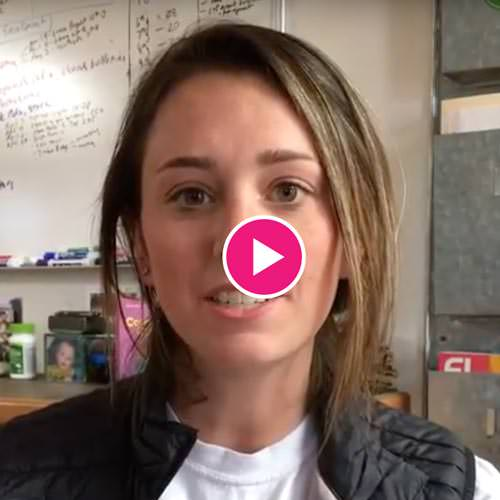
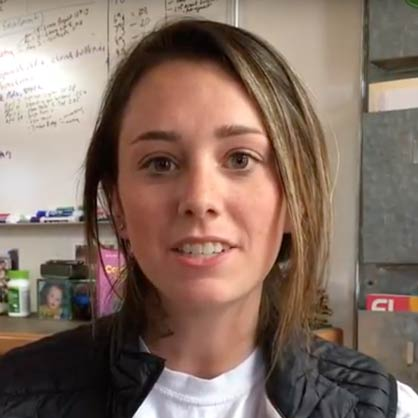
Tweaked the social feed on the home page. Button tweaks. Front page css tweaks.

Changed region(s): [[0.4354, 0.4043, 0.622, 0.622]]

diff --git a/assets/css/style.css b/assets/css/style.css
@@ -635,12 +635,21 @@ ul.pager li a:visited {
 }
 .footer-wrapper .footer-inner .one .social-icons a {
   margin: 0 .5rem;
+  -webkit-transition: all 0.2s ease;
+  transition: all 0.2s ease;
+  text-decoration: none;
 }
 .footer-wrapper .footer-inner .one .social-icons a:first-child {
   margin-left: 0;
 }
 .footer-wrapper .footer-inner .one .social-icons a img {
   height: 60px;
+  width: 60px;
+}
+.footer-wrapper .footer-inner .one .social-icons a:hover {
+  -webkit-transform: scale(1.1);
+      -ms-transform: scale(1.1);
+          transform: scale(1.1);
 }
 @media (min-width: 50em) {
   .footer-wrapper .footer-inner .two {
@@ -708,6 +717,16 @@ ul.pager li a:visited {
   margin-left: 0;
   margin-right: 0;
   clear: none;
+}
+.footer-wrapper .footer-inner .three .right img {
+  -webkit-transition: all 0.2s ease;
+  transition: all 0.2s ease;
+  text-decoration: none;
+}
+.footer-wrapper .footer-inner .three .right img:hover {
+  -webkit-transform: scale(1.1);
+      -ms-transform: scale(1.1);
+          transform: scale(1.1);
 }
 .footer-wrapper .footer-inner .full {
   width: 100%;
@@ -922,6 +941,43 @@ a.call-to-action:hover {
           box-shadow: 5px 20px 30px 0 rgba(0, 0, 0, 0.1);
 }
 
+.play-button {
+  background: #ED197B;
+  border: 3px solid #fff;
+  border-radius: 50%;
+  display: -webkit-box;
+  display: -ms-flexbox;
+  display: flex;
+  -webkit-box-pack: center;
+      -ms-flex-pack: center;
+          justify-content: center;
+  -webkit-box-align: center;
+      -ms-flex-align: center;
+          align-items: center;
+  width: 60px;
+  height: 60px;
+  -webkit-transition: all 0.2s ease;
+  transition: all 0.2s ease;
+}
+.play-button .arrow {
+  width: 0px;
+  height: 0px;
+  border-top: 15px solid transparent;
+  border-bottom: 15px solid transparent;
+  border-left: 20px solid #fff;
+  text-indent: 200%;
+  white-space: nowrap;
+  overflow: hidden;
+  display: block;
+}
+.play-button:hover {
+  -webkit-transform: scale(1.075);
+      -ms-transform: scale(1.075);
+          transform: scale(1.075);
+  -webkit-box-shadow: 5px 20px 30px 0 rgba(0, 0, 0, 0.1);
+          box-shadow: 5px 20px 30px 0 rgba(0, 0, 0, 0.1);
+}
+
 form .form-super-group {
   margin-top: .5rem;
 }
@@ -1043,7 +1099,24 @@ form .align-right {
   clear: none;
 }
 .front .ventue-project .right h2 {
-  margin: 0;
+  color: #86B209;
+  display: inline;
+  font-size: 2.5rem;
+  margin: 0 1rem 0 0;
+  font-family: "Montserrat", sans-serif;
+  font-weight: 500;
+}
+.front .ventue-project .right h3 {
+  color: #86B209;
+  font-size: 2.5rem;
+  font-family: "Montserrat", sans-serif;
+  display: inline;
+  font-weight: 900;
+  margin: 0 0 1rem 0;
+}
+.front .ventue-project .right p a {
+  font-weight: 700;
+  text-decoration: none;
 }
 @media (min-width: 50em) {
   .front .ventue-project .right {
@@ -1081,8 +1154,25 @@ form .align-right {
   margin-left: 8.69565%;
   clear: none;
 }
-.front .that-one-teacher .right h2 {
-  margin: 0;
+.front .that-one-teacher .left h2 {
+  color: #86B209;
+  display: inline;
+  font-size: 2.5rem;
+  margin: 0 1rem 0 0;
+  font-family: "Montserrat", sans-serif;
+  font-weight: 900;
+}
+.front .that-one-teacher .left h3 {
+  color: #58595B;
+  font-family: "Montserrat", sans-serif;
+  font-weight: 700;
+}
+.front .that-one-teacher .left p a {
+  font-weight: 700;
+  text-decoration: none;
+}
+.front .that-one-teacher .right {
+  position: relative;
 }
 @media (min-width: 50em) {
   .front .that-one-teacher .right {
@@ -1099,6 +1189,24 @@ form .align-right {
   margin-right: -100%;
   margin-left: 60.86957%;
   clear: none;
+}
+.front .that-one-teacher .right .play-button {
+  position: absolute;
+  top: 50%;
+  left: 50%;
+  -webkit-transform: translate(-50%, -50%);
+      -ms-transform: translate(-50%, -50%);
+          transform: translate(-50%, -50%);
+  -webkit-transform-origin: 20% 40%;
+      -ms-transform-origin: 20% 40%;
+          transform-origin: 20% 40%;
+}
+.front .that-one-teacher .right .play-button:hover {
+  -webkit-transform: scale(1.075) translate(-50%, -50%);
+      -ms-transform: scale(1.075) translate(-50%, -50%);
+          transform: scale(1.075) translate(-50%, -50%);
+  -webkit-box-shadow: 5px 20px 30px 0 rgba(0, 0, 0, 0.1);
+          box-shadow: 5px 20px 30px 0 rgba(0, 0, 0, 0.1);
 }
 .front .join-the-compass-community {
   background-color: #00AEEF;
@@ -1170,6 +1278,16 @@ form .align-right {
   background: #fff;
   position: relative;
   margin: 0 1rem;
+  -webkit-transition: all 0.2s ease;
+  transition: all 0.2s ease;
+  text-decoration: none;
+}
+.front .connect-with-compass .social-posts .social-post:hover {
+  -webkit-transform: scale(1.05);
+      -ms-transform: scale(1.05);
+          transform: scale(1.05);
+  -webkit-box-shadow: 5px 10px 20px 0 rgba(0, 0, 0, 0.3);
+          box-shadow: 5px 10px 20px 0 rgba(0, 0, 0, 0.3);
 }
 .front .connect-with-compass .social-posts .social-post .social-tag {
   position: absolute;

diff --git a/_layouts/front.html b/_layouts/front.html
@@ -29,12 +29,13 @@ body_class: front
             <img src="{{site.cloudinaryurl}}image/fetch/w_416,h_416,c_fill,c_fill/{{site.url}}/assets/images/front/front-venture-project.jpg" alt="Venture Project" data-img="{{site.url}}/assets/images/front/front-venture-project.jpg" data-width="416px" data-height="416px">
         </div>
         <div class="right">
-            <h2>Venture Project: Deep-Field Ecology </h2>
+            <h2>Venture Project: </h2>
+            <h3>Deep-Field Ecology</h3>
             <p> <a href="#">Purpose:</a> Rarely are youth given the opportunity to be truly exposed to the environment around them. Most of our lives we are insulated from the environment which we rely on to stay alive. As we continue to create technological
                 advances in our society we continue to push ourselves out of nature in a way that prevents us from making deep connections with the earth and with ourselves. <a href="#">More</a></p>
-            <p>
-                <a href="Community Partners:"></a> No Barriers, Colorado Mountain School, CSU Mountain Campus</p>
-            <a href="#" class="call-to-action">Venture Forth</a>
+            <p><a href="Community Partners:"></a> No Barriers, Colorado Mountain School, CSU Mountain Campus</p>
+            <p style="text-align:right"><a href="#" class="call-to-action">Venture Forth</a></p>
+            
 
         </div>
     </section>
@@ -48,9 +49,9 @@ body_class: front
                 of mentors from business, nonprofit and higher education organizations. That exceptional, life-changing learning experience you had isn’t the exception at Compass; it’s the rule.</p>
             <p><a href="#">Share your story:</a> <strong>#ThatOneTeacher, #CompassFortCollins</strong></p>
 
-
         </div>
         <div class="right">
+            <a href="#" class="play-button"><span class="arrow">play</span></a>
             <img src="{{site.cloudinaryurl}}image/fetch/w_416,h_416,c_fill/{{site.url}}/assets/images/front/front-that-one-teacher-video.jpg" alt="Venture Project" data-img="{{site.url}}/assets/images/front/front-that-one-teacher-video.jpg" data-width="416px" data-height="416px">
         </div>
 
@@ -121,21 +122,22 @@ body_class: front
     <section class="connect-with-compass container-padding-small">
         <h2>Connect with Compass</h2>
         <div class="social-posts inner-wrap">
-            <div class="social-post">
+            
+            <a href="#" class="social-post">
                 <span class="social-tag facebook"></span>
                 <img src="/assets/images/front/social-test.jpg" alt="facebook">
                 <div class="social-text">Watch this space! So excited to conclude a great team meeting with a field trip to our new building! This is going to be such a great place to learn. We are enrolling now for grades 6-10. Spaces are filling up fast though!</div>
-            </div>
-            <div class="social-post">
+            </a>
+            <a href="#" class="social-post">
                 <span class="social-tag instagram"></span>
                 <img src="/assets/images/front/social-test.jpg" alt="facebook">
                 <div class="social-text">We had so much fun helping you local #superheroes #findyourgenius. Thank you @gryphongames @fococomiccon @geekgirlbrunch @not_that_todd_jones @moriahpariah Laurissa Hughes, and Abe Akin on Create Your Own Superhero Day!</div>
-            </div>
-            <div class="social-post">
+            </a>
+            <a href="#" class="social-post">
                 <span class="social-tag twitter"></span>
                 <img src="/assets/images/front/social-test.jpg" alt="facebook">
                 <div class="social-text">Join us at @gryphongames at noon on April 7th for Create Your Own #Superhero Day featuring a slew of local #artists, #writers, and #cosplayers from @fococomiccon and @geekgirlbrunch #kidscreate #kidartist #teenwriters #comics #createcomics</div>
-            </div>
+            </a>
         </div>
 
     </section>

diff --git a/assets/sass/partials/design/pages/_front.scss b/assets/sass/partials/design/pages/_front.scss
@@ -34,7 +34,24 @@
         }
         .right {
             h2 {
-                margin: 0;
+                color: $color-one;
+                display: inline;
+                font-size: 2.5rem;
+                margin: 0 1rem 0 0;
+                font-family: $font-family;
+                font-weight: 500;
+            }
+            h3 {
+                color: $color-one;
+                font-size: 2.5rem;
+                font-family: $font-family;
+                display: inline;
+                font-weight: 900;
+                margin: 0 0 1rem 0;
+            }
+            p a {
+                font-weight: 700;
+                text-decoration: none;
             }
             @include breakpoint($bp-medium,
             $no-query: ".no-mq") {
@@ -52,16 +69,40 @@
             $no-query: ".no-mq") {
                 @include grid-span(6, 2, $gutter: 1);
             }
+            h2 {
+                color: $color-one;
+                display: inline;
+                font-size: 2.5rem;
+                margin: 0 1rem 0 0;
+                font-family: $font-family;
+                font-weight: 900;
+            }
+            h3 {
+                color: $color-five;
+                font-family: $font-family;
+                font-weight: 700;
+            }
+            p a {
+                font-weight: 700;
+                text-decoration: none;
+            }
         }
         .right {
-            h2 {
-                margin: 0;
-            }
+            position: relative;
             @include breakpoint($bp-medium,
             $no-query: ".no-mq") {
-                @include grid-span(4,
-                8,
-                $gutter: 1);
+                @include grid-span(4, 8, $gutter: 1);
+            }
+            .play-button {
+                position: absolute;
+                top: 50%;
+                left: 50%;
+                transform: translate(-50%, -50%);
+                transform-origin: 20% 40%;
+                &:hover {
+                    transform: scale(1.075) translate(-50%, -50%);
+                    box-shadow: 5px 20px 30px 0 rgba(0, 0, 0, 0.1);
+                }
             }
         }
     }
@@ -127,6 +168,12 @@
                 background: #fff;
                 position: relative;
                 margin: 0 1rem;
+                transition: all 0.2s ease;
+                text-decoration: none;
+                &:hover {
+                    transform: scale(1.05);
+                    box-shadow: 5px 10px 20px 0 rgba(0, 0, 0, 0.3);
+                }
                 .social-tag {
                     position: absolute;
                     top: 0;

diff --git a/assets/sass/partials/design/components/_footer.scss b/assets/sass/partials/design/components/_footer.scss
@@ -25,6 +25,12 @@
                     }
                     img {
                         height: 60px;
+                        width: 60px;
+                    }
+                    transition: all 0.2s ease;
+                    text-decoration: none;
+                    &:hover {
+                        transform: scale(1.1);
                     }
                 }
             }
@@ -47,6 +53,13 @@
                 text-align: center;
                 @include breakpoint($bp-medium, $no-query: ".no-mq") {
                     @include grid-span(4, 9, $gutter: 0);
+                }
+                img {
+                    transition: all 0.2s ease;
+                    text-decoration: none;
+                    &:hover {
+                        transform: scale(1.1);
+                    }
                 }
             }
         }

diff --git a/assets/sass/partials/design/components/_buttons.scss b/assets/sass/partials/design/components/_buttons.scss
@@ -15,3 +15,27 @@ a.call-to-action {
         box-shadow: 5px 20px 30px 0 rgba(0, 0, 0, 0.1);
     }
 }
+
+.play-button {
+    background: $color-three;
+    border: 3px solid #fff;
+    border-radius: 50%;
+    display: flex;
+    justify-content: center;
+    align-items: center;
+    width: 60px;
+    height: 60px;
+    transition: all 0.2s ease;
+    .arrow {
+        width: 0px;
+        height: 0px;
+        border-top: 15px solid transparent;
+        border-bottom: 15px solid transparent;
+        border-left: 20px solid #fff;
+        @include hide-text;
+    }
+    &:hover {
+        transform: scale(1.075);
+        box-shadow: 5px 20px 30px 0 rgba(0, 0, 0, 0.1);
+    }
+}
